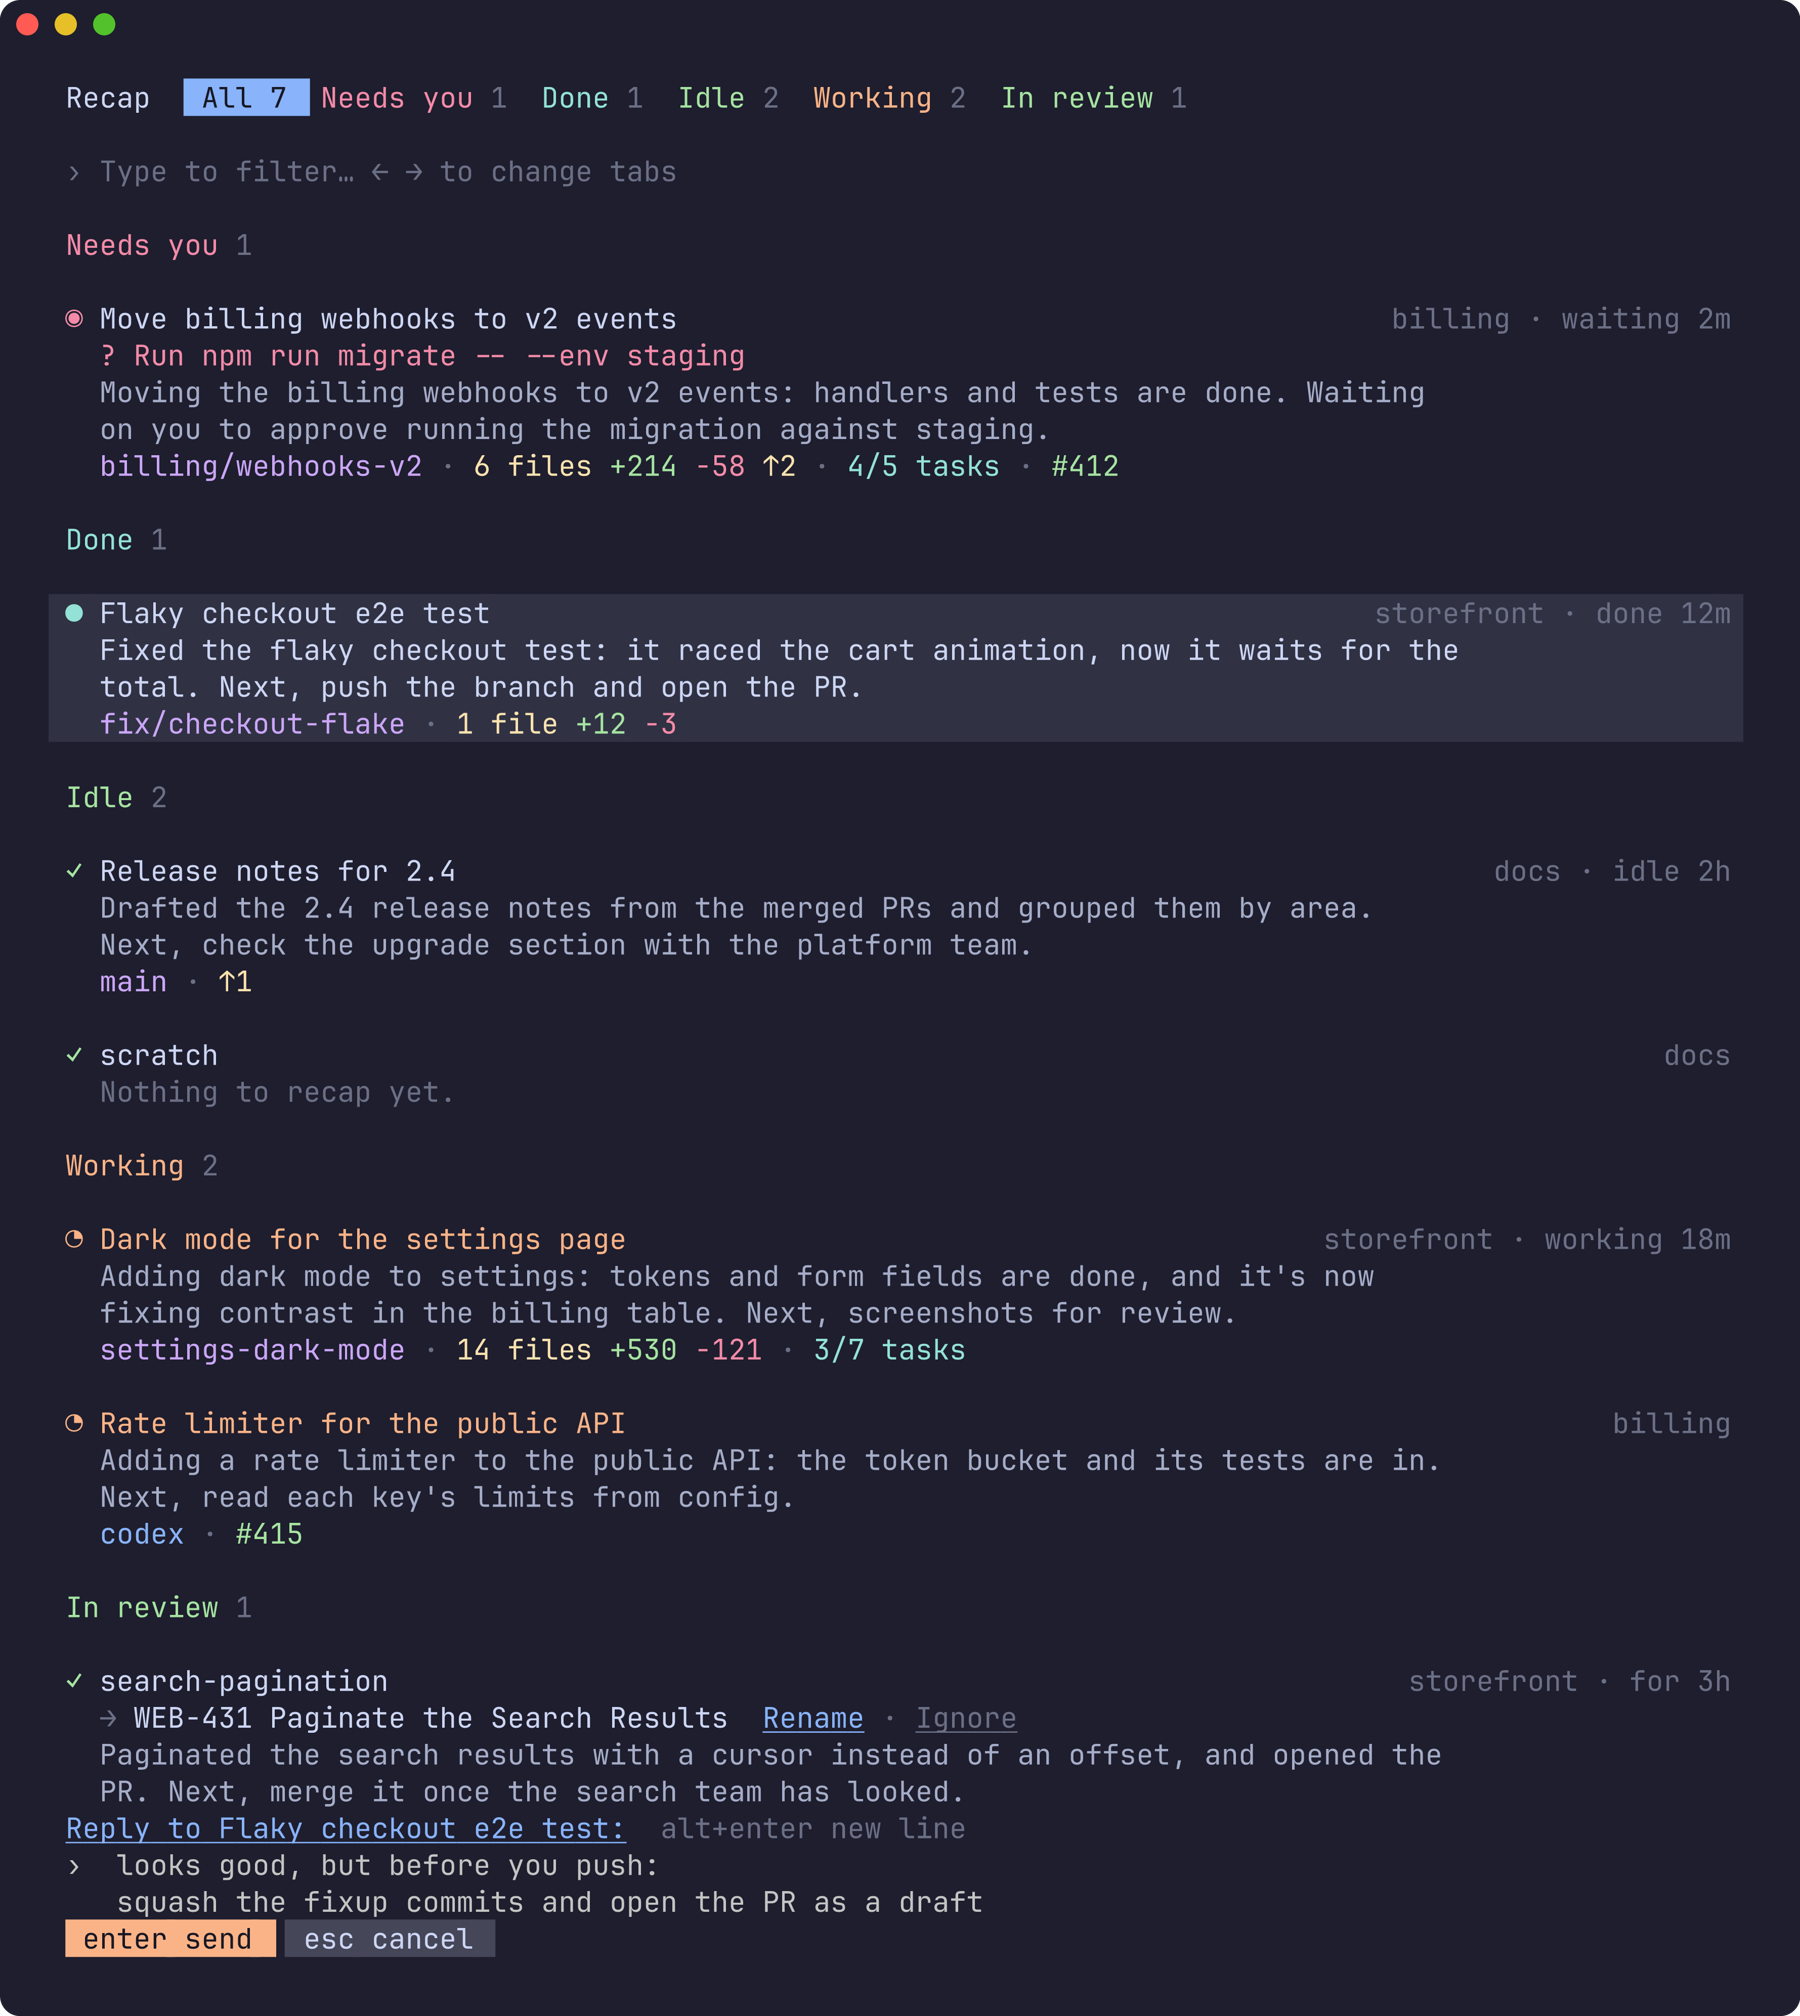
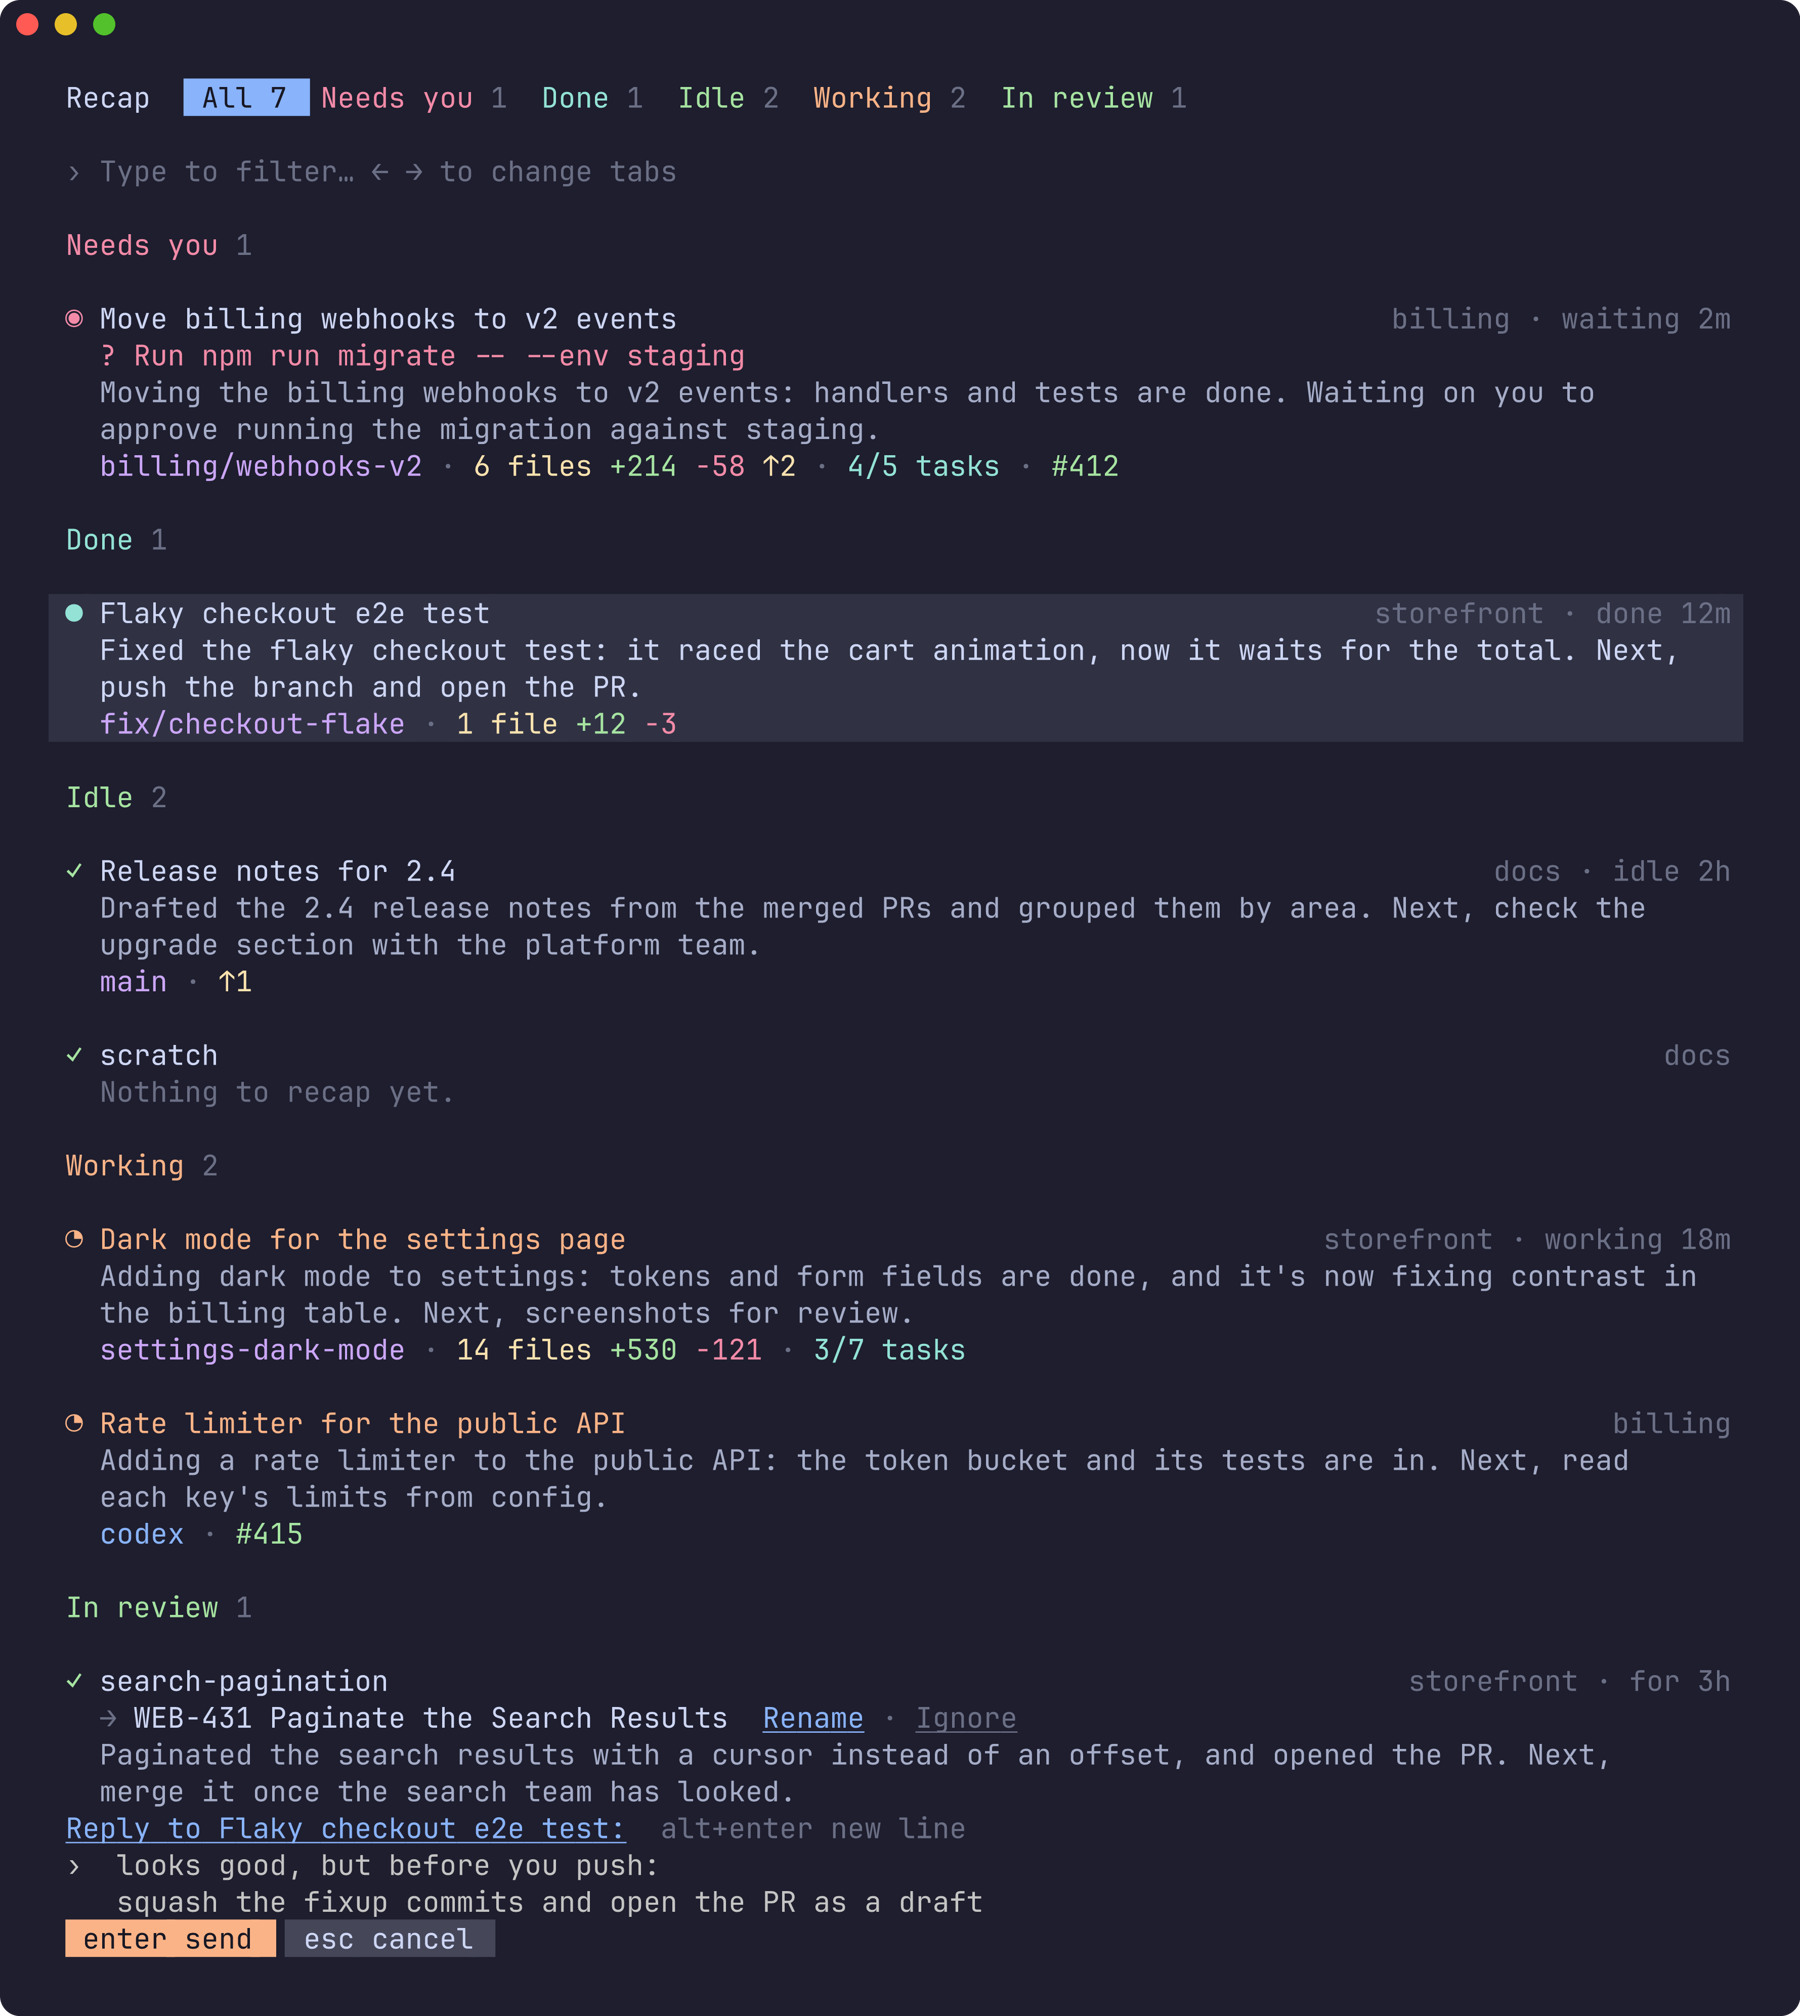
feat: a recap runs the width of the popup
Recap lines stopped at 80 columns whatever the popup's width, which on a
wide terminal left most of it empty and kept every recap at three lines.
They wrap at the popup's edge now: a line or two on a wide one, so more
agents fit on screen.

Screenshots regenerated.

diff --git a/tui.go b/tui.go
@@ -931,12 +931,10 @@ func (m model) listHeight() int {
 	return max(3, m.height-listTop-2-max(0, m.replyLines()-1))
 }
 
-// maxRecapWidth keeps recap lines to a comfortable measure on a wide popup.
-const maxRecapWidth = 80
-
-// recapWidth is the room a recap line has: indented under the title, and no
-// wider than maxRecapWidth.
-func (m model) recapWidth() int { return max(10, min(maxRecapWidth, m.width-6)) }
+// recapWidth is the room a recap line has: indented under the title, to the
+// popup's right edge. On a wide popup a recap is a line or two, not three,
+// and more agents fit.
+func (m model) recapWidth() int { return max(10, m.width-6) }
 
 // body is what goes under an agent's title: its recap wrapped, or why there
 // isn't one.

diff --git a/tui_test.go b/tui_test.go
@@ -607,6 +607,19 @@ func TestAFailedMemexRecapIsntTriedAgainUntilTheSessionMoves(t *testing.T) {
 	}
 }
 
+func TestARecapUsesAWidePopupsWidth(t *testing.T) {
+	m, _ := demoModel(t)
+	e := m.entries["w2:p1"] // its recap is two lines at 100 wide
+	if lines, _ := m.body(e); len(lines) != 2 {
+		t.Fatalf("%d lines at 100 wide: %q", len(lines), lines)
+	}
+	m.width = 200
+	lines, _ := m.body(e)
+	if len(lines) != 1 || ansi.StringWidth(lines[0]) <= 100 {
+		t.Errorf("%d lines at 200 wide: %q", len(lines), lines)
+	}
+}
+
 func TestScrollingKeepsTheCursorInView(t *testing.T) {
 	m, _ := demoModel(t)
 	next, _ := m.Update(tea.WindowSizeMsg{Width: 100, Height: 12})

diff --git a/CHANGELOG.md b/CHANGELOG.md
@@ -19,6 +19,8 @@ Recaps for other agents. `agents` in `config.json` lists the ones recapped,
   (`haiku` by default, or your own `summarizer` command). Sessions are
   matched by the exact ID herdr reports, and the transcript is passed as
   data, with no tools, so it can't instruct the summarizer.
+- **A recap runs the width of the popup**, where it stopped at 80 columns:
+  on a wide terminal it's a line or two, and more agents fit.
 - **Better titles for Codex agents too**: asked for in a fork of its own,
   and given with Codex's `/rename`. Not for agents read through Memex.
 
